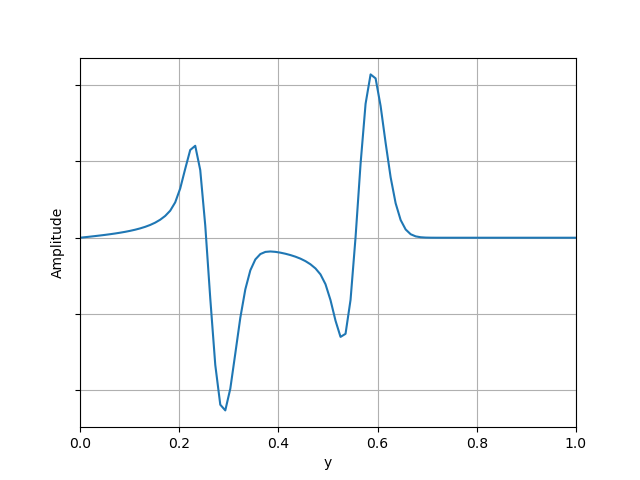
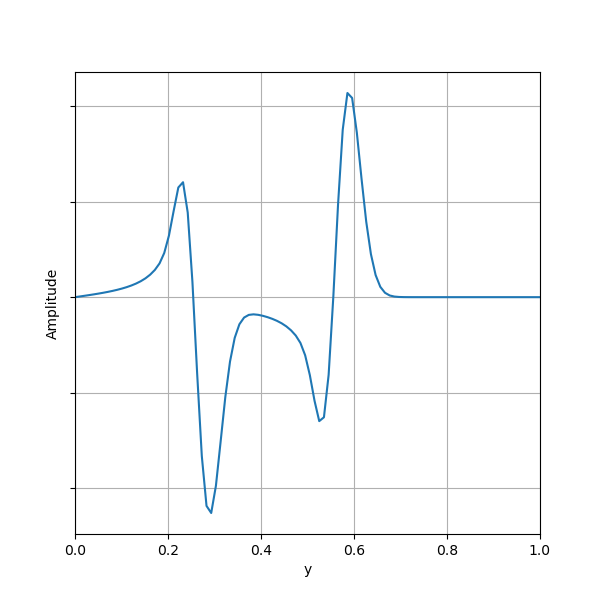
Changed visuals in README

diff --git a/main.py b/main.py
@@ -70,9 +70,11 @@ print('The mesh size is h =', round(h,5))                           #print info 
 print('The time step is k =', round(k,5))                           #print info on time step
 print('The max time step is k_max =', round(k_check,5))             #print info on time step convergent
 
+contour_size_inches = 6                                             #size to match contour gif dimensions
 #sliced plane development plot
 pts=[0,60,100,180,250]                                             #some instants are chosen to be plotted
 for item in pts:
+    fig = pl.figure(figsize=(contour_size_inches, contour_size_inches) if item == 60 else pl.rcParams['figure.figsize'])  #match gif size for t=60 only
     pl.plot(y,u[item,int(0.5/h),:])                                #plot the surface sliced in the mid plane
     pl.grid(which='both')                                          #plot the grid
     if item != 60:
@@ -91,7 +93,6 @@ parallel to x')                                                    #plot title (
 #create a gif to see the evolution in 2D
 frames = 200                                                   #set the number of frames
 nt=0                                                           #start the gif at time 0
-contour_size_inches = 6                                        #size to match contour gif dimensions
 for n in range(frames):                                        #Generate each frame
     fig = pl.figure(figsize=(contour_size_inches, contour_size_inches))   #match size of contour gif
     ax = fig.add_subplot(111, projection='3d')                 #create subplot
